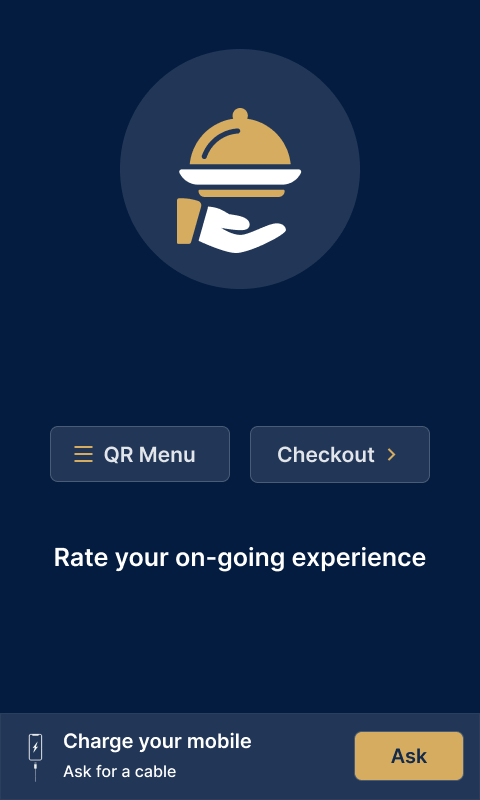
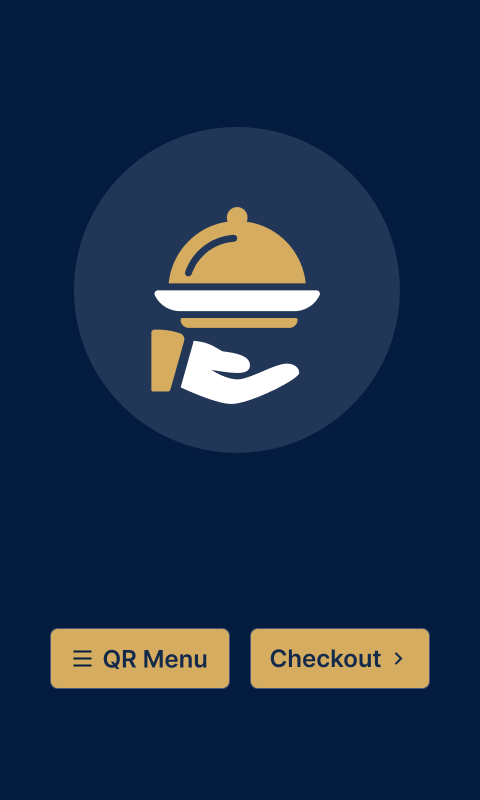
FIX: service screen change

diff --git a/qt-app/main.py b/qt-app/main.py
@@ -1113,10 +1113,10 @@ class TapForServiceScreen(QDialog):
         self.goToNextButton.clicked.connect(self.navigateToCloseServiceScreen)
         self.menuButton.clicked.connect(self.navigateToDinerActionMenu)
         self.checkoutButton.clicked.connect(self.navigateToCheckoutScreen)
-        self.happyButton.clicked.connect(self.notifyHappy)
-        self.sadButton.clicked.connect(self.notifySad)
-        self.neutralButton.clicked.connect(self.notifyNeutral)
-        self.askForCableButton.clicked.connect(self.askForCable)
+        # self.happyButton.clicked.connect(self.notifyHappy)
+        # self.sadButton.clicked.connect(self.notifySad)
+        # self.neutralButton.clicked.connect(self.notifyNeutral)
+        # self.askForCableButton.clicked.connect(self.askForCable)
         self.askedCable = False
         # slider = self.experienceSlider
         # slider.setMinimum(0)
@@ -1127,16 +1127,16 @@ class TapForServiceScreen(QDialog):
         global askingCable,smiley
         askingCable = False
         setPixMap(self,"assets/WaiterLITE-UI-13.png")
-        setIcon(self.happyButton,"assets/Happy-1.png")
-        setIcon(self.sadButton,"assets/sad-1.png")
-        setIcon(self.neutralButton,"assets/Average-1.png")
+        # setIcon(self.happyButton,"assets/Happy-1.png")
+        # setIcon(self.sadButton,"assets/sad-1.png")
+        # setIcon(self.neutralButton,"assets/Average-1.png")
 
-        if smiley == "happy":
-            setIcon(self.happyButton,"assets/Happy.png")
-        elif smiley =="sad":
-            setIcon(self.sadButton,"assets/sad.png")
-        elif smiley == "neutral":
-            setIcon(self.neutralButton,"assets/Average.png")
+        # if smiley == "happy":
+        #     setIcon(self.happyButton,"assets/Happy.png")
+        # elif smiley =="sad":
+        #     setIcon(self.sadButton,"assets/sad.png")
+        # elif smiley == "neutral":
+        #     setIcon(self.neutralButton,"assets/Average.png")
         lightThreadRunner.launch(yellowLight)
     def askForCable(self):
         global askingCable
@@ -1145,23 +1145,23 @@ class TapForServiceScreen(QDialog):
     def notifyHappy(self):
         global smiley, hangoutId
         smiley = "happy"
-        setIcon(self.happyButton,"assets/Happy.png")
-        setIcon(self.sadButton,"assets/sad-1.png")
-        setIcon(self.neutralButton,"assets/Average-1.png")
+        # setIcon(self.happyButton,"assets/Happy.png")
+        # setIcon(self.sadButton,"assets/sad-1.png")
+        # setIcon(self.neutralButton,"assets/Average-1.png")
         smileyRunner.addSmiley(notifyFeelingHappy,[hangoutId,waiterId,getRestaurantId(),getTableId()])
     def notifySad(self):
         global smiley, hangoutId
         smiley = "sad"
-        setIcon(self.happyButton,"assets/Happy-1.png")
-        setIcon(self.sadButton,"assets/sad.png")
-        setIcon(self.neutralButton,"assets/Average-1.png")
+        # setIcon(self.happyButton,"assets/Happy-1.png")
+        # setIcon(self.sadButton,"assets/sad.png")
+        # setIcon(self.neutralButton,"assets/Average-1.png")
         smileyRunner.addSmiley(notifyFeelingBad,[hangoutId,waiterId,getRestaurantId(),getTableId()])
     def notifyNeutral(self):
         global smiley, hangoutId
         smiley = "neutral"
-        setIcon(self.happyButton,"assets/Happy-1.png")
-        setIcon(self.sadButton,"assets/sad-1.png")
-        setIcon(self.neutralButton,"assets/Average.png")
+        # setIcon(self.happyButton,"assets/Happy-1.png")
+        # setIcon(self.sadButton,"assets/sad-1.png")
+        # setIcon(self.neutralButton,"assets/Average.png")
         smileyRunner.addSmiley(notifyFeelingNeutral,[hangoutId,waiterId,getRestaurantId(),getTableId()])
     
     def onExperienceChanged(self, value):
@@ -1222,33 +1222,33 @@ class CloseServiceScreen(QDialog):
         self.goToNextButton.clicked.connect(self.navigateToTapForServiceScreen)
         self.menuButton.clicked.connect(self.navigateToDinerActionMenu)
         self.checkoutButton.clicked.connect(self.navigateToCheckoutScreen)
-        self.happyButton.clicked.connect(self.notifyHappy)
-        self.sadButton.clicked.connect(self.notifySad)
-        self.neutralButton.clicked.connect(self.notifyNeutral)
+        # self.happyButton.clicked.connect(self.notifyHappy)
+        # self.sadButton.clicked.connect(self.notifySad)
+        # self.neutralButton.clicked.connect(self.notifyNeutral)
         self.askedCable = False
         # thr.join()
-        self.askForCableButton.clicked.connect(self.navigateToTapForServiceScreen)
+        # self.askForCableButton.clicked.connect(self.navigateToTapForServiceScreen)
 
     def notifyHappy(self):
         global smiley, hangoutId
         smiley = "happy"
-        setIcon(self.happyButton,"assets/Happy.png")
-        setIcon(self.sadButton,"assets/sad-1.png")
-        setIcon(self.neutralButton,"assets/Average-1.png")
+        # setIcon(self.happyButton,"assets/Happy.png")
+        # setIcon(self.sadButton,"assets/sad-1.png")
+        # setIcon(self.neutralButton,"assets/Average-1.png")
         smileyRunner.addSmiley(notifyFeelingHappy,[hangoutId,waiterId,getRestaurantId(),getTableId()])
     def notifySad(self):
         global smiley, hangoutId
         smiley = "sad"
-        setIcon(self.happyButton,"assets/Happy-1.png")
-        setIcon(self.sadButton,"assets/sad.png")
-        setIcon(self.neutralButton,"assets/Average-1.png")
+        # setIcon(self.happyButton,"assets/Happy-1.png")
+        # setIcon(self.sadButton,"assets/sad.png")
+        # setIcon(self.neutralButton,"assets/Average-1.png")
         smileyRunner.addSmiley(notifyFeelingBad,[hangoutId,waiterId,getRestaurantId(),getTableId()])
     def notifyNeutral(self):
         global smiley, hangoutId
         smiley = "neutral"
-        setIcon(self.happyButton,"assets/Happy-1.png")
-        setIcon(self.sadButton,"assets/sad-1.png")
-        setIcon(self.neutralButton,"assets/Average.png")
+        # setIcon(self.happyButton,"assets/Happy-1.png")
+        # setIcon(self.sadButton,"assets/sad-1.png")
+        # setIcon(self.neutralButton,"assets/Average.png")
         smileyRunner.addSmiley(notifyFeelingNeutral,[hangoutId,waiterId,getRestaurantId(),getTableId()])
        
     def clear(self):
@@ -1261,9 +1261,9 @@ class CloseServiceScreen(QDialog):
 
         self.messageLabel.setText(currentWaiter["firstName"][0:10]+" on the way")
         lightThreadRunner.launch(blueLight)
-        setIcon(self.happyButton,"assets/Happy-1.png")
-        setIcon(self.sadButton,"assets/sad-1.png")
-        setIcon(self.neutralButton,"assets/Average-1.png")
+        # setIcon(self.happyButton,"assets/Happy-1.png")
+        # setIcon(self.sadButton,"assets/sad-1.png")
+        # setIcon(self.neutralButton,"assets/Average-1.png")
         if smiley == "happy":
             setIcon(self.happyButton,"assets/Happy.png")
         elif smiley =="sad":

diff --git a/qt-app/config/config.py b/qt-app/config/config.py
@@ -1,7 +1,7 @@
 import subprocess
-API_URL="https://api.woobly.squareboat.info"
+# API_URL="https://api.woobly.squareboat.info"
 APP_VERSION="1.1.2"
-# API_URL="http://localhost:3000"
+API_URL="http://localhost:3000"
 def getConnectedWifi():
     try:
         return subprocess.getoutput("iwgetid | grep -e 'SSID' | awk '{print $2}'").split("\"")[1]
